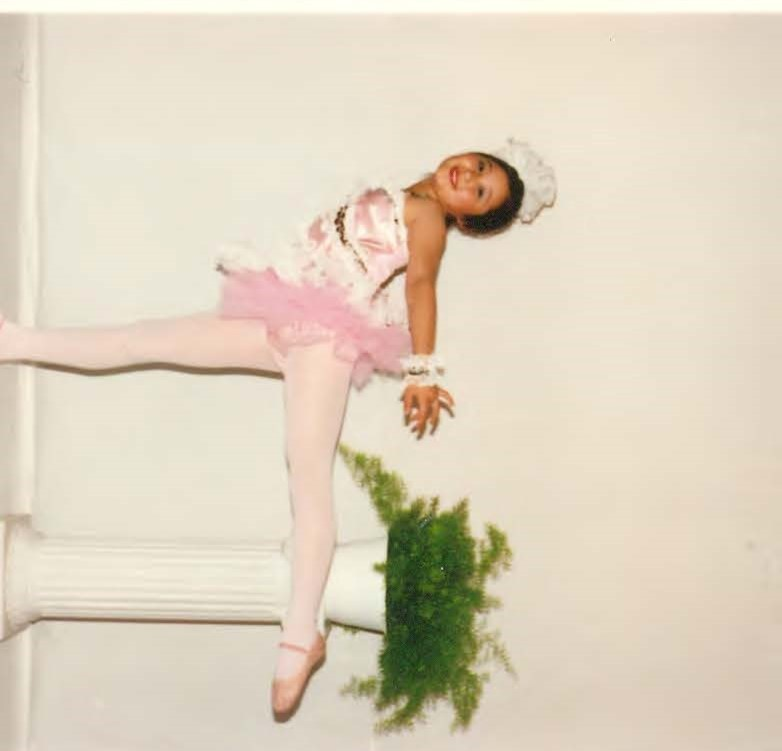
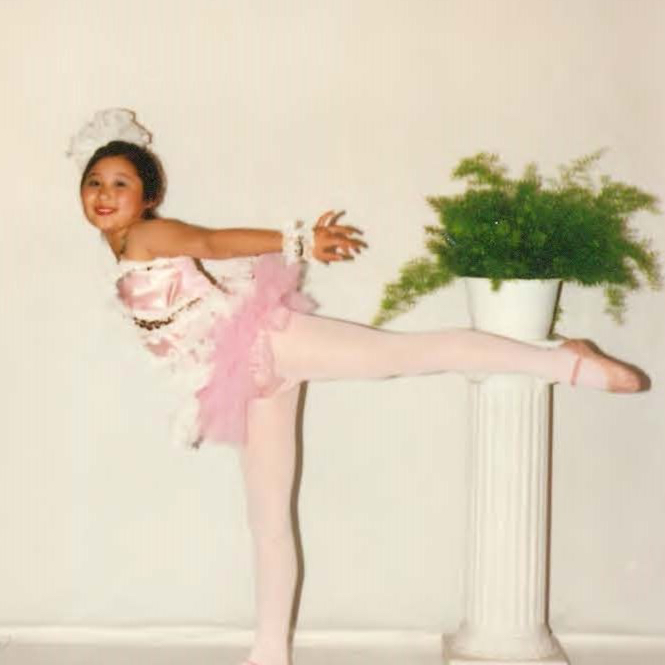
almost done

diff --git a/index.html b/index.html
@@ -75,7 +75,7 @@
     <header>
         <div class="header-content">
             <div class="header-content-inner">
-                <img src="img/logo.png" class="logo">
+                <img src="img/jlogo.png" class="logo">
                 <a href="#about"><img src="img/down2.png" class="scroll"></a>
             </div>
         </div>
@@ -142,7 +142,7 @@
                         <br>
                         When I was 19, I visited San Francisco and noticed an Asian foods trend. I decided to capitalize on the fact trends move inward from coastal cities and dropped out of college after three weeks of classes.
                         <br><br>
-                        I founded and grew a food manufacturing company with multiple offices and retail operations in the Midwest. My first hire was an Operations Manager from a LA based national competitor who brought the operations manual with him. Our product success was, in part, due to an alliance rev-share program with name brands such as WholeFoods Market, Dierberg’s and Compass Group. Wanting a more dynamic industry, had a successful exit at age 22.
+                        I founded and grew a food manufacturing company with multiple offices and retail operations in the Midwest, generating $1 million in revenue within 18 months. My first hire was an Operations Manager from a LA based national competitor who brought the operations manual with him. Our product success was, in part, due to an alliance rev-share program with name brands such as WholeFoods Market, Dierberg’s and Compass Group. Wanting a more dynamic industry, I sold the business at age 22.
                         <br><br>
                         • Grew the team from 1 to 24 employees.<br>
                         • Key Alliance Partners: WholeFoods market, Dierberg's Markets, Compass Group<br>
@@ -195,7 +195,7 @@
 
                 <div class="col-lg-4 col-sm-6">
                     <a href="#" class="portfolio-box" data-toggle="modal" data-target="#vocaleModal">
-                        <img src="img/vocale2.png" class="img-responsive" alt="">
+                        <img src="img/vocale3.jpg" class="img-responsive" alt="">
                         <div class="portfolio-box-caption">
                             <div class="portfolio-box-caption-content">
                                 <div class="project-name">
@@ -255,7 +255,7 @@
 
                 <div class="col-lg-4 col-sm-6">
                     <a href="#" class="portfolio-box" data-toggle="modal" data-target="#travelModal">
-                        <img src="img/travel.png" class="img-responsive" alt="">
+                        <img src="img/travel.jpg" class="img-responsive" alt="">
                         <div class="portfolio-box-caption">
                             <div class="portfolio-box-caption-content">
                                 <div class="project-name">
@@ -278,29 +278,34 @@
                         <br><br>
                         In my spare time, I enjoy reading novels, The Economist, MIT Technology Review, lifting free weights, finishing a MS in Applied Econ, being paleo gluten-free and spending time at the gym.
                         <br><br>
-                        <img src="img/grandpa.jpg" class="trvimg">
+                        <div class="row">
+                        <div class="col-md-6">
+                          <img src="img/grandpa.jpg" class="trvimg">
+                          <br><br>
+                          Grandpa immigrated to NYC in the 60s and made it possible to pursue the American dream.
+                          <br><br>
+                        </div>
+                        <div class="col-md-6">
+                          <img src="img/ballet.jpg" class="trvimg">
+                          <br><br>
+                          Years of ballet and tap have been pivotal in cultivating focus, discipline and expression through visual language. It also emphasized the importance of timing in various contexts.
+                          <br><br>
+                        </div>
                         <br><br>
-                        Grandpa immigrated to NYC in the 60s and made it possible to pursue the American dream.
-                        <br><br>
-                        <img src="img/ballet.jpg" class="trvimg">
-                        <br><br>
-                        Years of ballet and tap have been pivotal in cultivating focus, discipline and expression through visual language. It also emphasized the importance of timing in various contexts.
-                        <br><br>
+                        </div>
+                        <div class="row">
                         <h4>Some of my favorite places...</h4>
                         <br>
-                        <img src="img/travelphoto1.jpg" class="trvimg">
-                        <br><br>
-                        <img src="img/travelphoto2.jpg" class="trvimg">
-                        <br><br>
-                        <img src="img/travelphoto3.jpg" class="trvimg">
-                        <br><br>
-                        <img src="img/travelphoto4.1.jpg" class="trvimg">
-                        <br><br>
-                        <img src="img/travelphoto4.jpg" class="trvimg">
-                        <br><br>
-                        <img src="img/travelphoto5.jpg" class="trvimg">
-                        <br><br>
-                        <img src="img/travelphoto6.jpg" class="trvimg">
+                        <div class="travel-images">
+                          <img src="img/travelphoto1.jpg" class="trvimg">
+                          <img src="img/travelphoto2.jpg" class="trvimg">
+                          <img src="img/travelphoto3.jpg" class="trvimg">
+                          <img src="img/travelphoto4.1.jpg" class="trvimg">
+                          <img src="img/travelphoto4.jpg" class="trvimg">
+                          <img src="img/travelphoto5.jpg" class="trvimg">
+                          <img src="img/travelphoto6.jpg" class="trvimg">
+                        </div>
+                        </div>
                       </div>
                     </div>
                   </div>
@@ -308,7 +313,7 @@
 
                 <div class="col-lg-4 col-sm-6">
                     <a href="#" class="portfolio-box" data-toggle="modal" data-target="#thoughtsModal">
-                        <img src="img/thoughts.png" class="img-responsive" alt="">
+                        <img src="img/thoughts.jpg" class="img-responsive" alt="">
                         <div class="portfolio-box-caption">
                             <div class="portfolio-box-caption-content">
                                 <div class="project-name">
@@ -348,7 +353,7 @@
     <section id="talks">
 
       <div class="col-lg-8 col-lg-offset-2 talks heading text-center">
-        <img src="img/talks.png">
+        <img src="img/talks.jpg">
         <h2>Talks</h2>
         <hr>
       </div>
@@ -426,6 +431,7 @@
     <script src="js/bootstrap.min.js"></script>
 
     <!-- Plugin JavaScript -->
+    <script src="js/jquery.mousewheel.min.js"></script>
     <script src="js/jquery.easing.min.js"></script>
     <script src="js/jquery.fittext.js"></script>
     <script src="js/wow.min.js"></script>

diff --git a/js/jquery.mousewheel.min.js b/js/jquery.mousewheel.min.js
@@ -1,0 +1,8 @@
+/*! Copyright (c) 2013 Brandon Aaron (http://brandon.aaron.sh)
+ * Licensed under the MIT License (LICENSE.txt).
+ *
+ * Version: 3.1.12
+ *
+ * Requires: jQuery 1.2.2+
+ */
+!function(a){"function"==typeof define&&define.amd?define(["jquery"],a):"object"==typeof exports?module.exports=a:a(jQuery)}(function(a){function b(b){var g=b||window.event,h=i.call(arguments,1),j=0,l=0,m=0,n=0,o=0,p=0;if(b=a.event.fix(g),b.type="mousewheel","detail"in g&&(m=-1*g.detail),"wheelDelta"in g&&(m=g.wheelDelta),"wheelDeltaY"in g&&(m=g.wheelDeltaY),"wheelDeltaX"in g&&(l=-1*g.wheelDeltaX),"axis"in g&&g.axis===g.HORIZONTAL_AXIS&&(l=-1*m,m=0),j=0===m?l:m,"deltaY"in g&&(m=-1*g.deltaY,j=m),"deltaX"in g&&(l=g.deltaX,0===m&&(j=-1*l)),0!==m||0!==l){if(1===g.deltaMode){var q=a.data(this,"mousewheel-line-height");j*=q,m*=q,l*=q}else if(2===g.deltaMode){var r=a.data(this,"mousewheel-page-height");j*=r,m*=r,l*=r}if(n=Math.max(Math.abs(m),Math.abs(l)),(!f||f>n)&&(f=n,d(g,n)&&(f/=40)),d(g,n)&&(j/=40,l/=40,m/=40),j=Math[j>=1?"floor":"ceil"](j/f),l=Math[l>=1?"floor":"ceil"](l/f),m=Math[m>=1?"floor":"ceil"](m/f),k.settings.normalizeOffset&&this.getBoundingClientRect){var s=this.getBoundingClientRect();o=b.clientX-s.left,p=b.clientY-s.top}return b.deltaX=l,b.deltaY=m,b.deltaFactor=f,b.offsetX=o,b.offsetY=p,b.deltaMode=0,h.unshift(b,j,l,m),e&&clearTimeout(e),e=setTimeout(c,200),(a.event.dispatch||a.event.handle).apply(this,h)}}function c(){f=null}function d(a,b){return k.settings.adjustOldDeltas&&"mousewheel"===a.type&&b%120===0}var e,f,g=["wheel","mousewheel","DOMMouseScroll","MozMousePixelScroll"],h="onwheel"in document||document.documentMode>=9?["wheel"]:["mousewheel","DomMouseScroll","MozMousePixelScroll"],i=Array.prototype.slice;if(a.event.fixHooks)for(var j=g.length;j;)a.event.fixHooks[g[--j]]=a.event.mouseHooks;var k=a.event.special.mousewheel={version:"3.1.12",setup:function(){if(this.addEventListener)for(var c=h.length;c;)this.addEventListener(h[--c],b,!1);else this.onmousewheel=b;a.data(this,"mousewheel-line-height",k.getLineHeight(this)),a.data(this,"mousewheel-page-height",k.getPageHeight(this))},teardown:function(){if(this.removeEventListener)for(var c=h.length;c;)this.removeEventListener(h[--c],b,!1);else this.onmousewheel=null;a.removeData(this,"mousewheel-line-height"),a.removeData(this,"mousewheel-page-height")},getLineHeight:function(b){var c=a(b),d=c["offsetParent"in a.fn?"offsetParent":"parent"]();return d.length||(d=a("body")),parseInt(d.css("fontSize"),10)||parseInt(c.css("fontSize"),10)||16},getPageHeight:function(b){return a(b).height()},settings:{adjustOldDeltas:!0,normalizeOffset:!0}};a.fn.extend({mousewheel:function(a){return a?this.bind("mousewheel",a):this.trigger("mousewheel")},unmousewheel:function(a){return this.unbind("mousewheel",a)}})});

diff --git a/css/creative.css b/css/creative.css
@@ -605,8 +605,9 @@ body {
 }
 
 .trvimg {
-  width: 50%;
+  height: 175px;
   vertical-align: inherit;
+  display: inline-block;
 }
 
 .border {
@@ -629,4 +630,20 @@ body {
   margin-bottom: 60px;
   margin-top: 75px;
   height: 75px;
+}
+
+.talks img {
+  height: 25px;
+  width: auto;
+}
+
+.travel-images {
+    white-space: nowrap;
+    overflow: auto;
+    width: 95%;
+    margin: auto;
+}
+
+.travel .row {
+  padding-top: 30px;
 }
